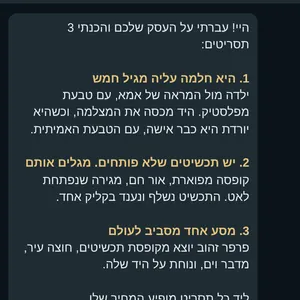
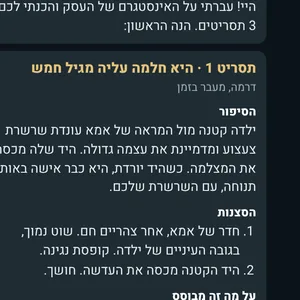
How it works: the ideas step shows a detailed script proposal; the finished video is shown as a cinematic title card, not a catalog video
Claude-Session: https://claude.ai/code/session_015Kj6wZhrCRAfSfrvuRRH85

Changed region(s): [[0.0, 0.0, 1.0, 1.0]]

diff --git a/index.html b/index.html
@@ -521,7 +521,7 @@ body>.wafb{position:fixed;inset-inline:16px;bottom:calc(88px + env(safe-area-ins
 .hw-dt h3{font-size:1.0625rem;line-height:1.3;margin:0 0 6px}.hw-dt p{margin:0;color:var(--inv-muted);font-size:.9375rem;line-height:1.5}
 .hw-dx{appearance:none;border:0;background:none;color:var(--inv-ink);font:inherit;font-size:.875rem;text-decoration:underline;text-underline-offset:3px;padding:10px 0 2px;cursor:pointer}
 .hw-cta{margin-top:16px}.hw-cta .btn{width:100%;color:var(--ink);text-decoration:none}
-@media (max-width:600px){.hw-d{grid-template-columns:1fr;gap:10px;padding:10px}.hw-dimg{max-width:300px;margin-inline:auto;width:100%}.hw-dimg img{max-height:420px}}
+@media (max-width:600px){.hw-d{grid-template-columns:1fr;gap:10px;padding:10px}.hw-dimg{max-width:300px;margin-inline:auto;width:100%}.hw-dimg img{max-height:450px}}
 .how-steps h3,.how-steps h4{font-size:1.5rem;margin-bottom:8px}
 .how-way{margin-top:40px;scroll-margin-top:calc(var(--nav) + 16px)}.how-way+.how-way{margin-top:56px;padding-top:48px;border-top:1px solid rgba(255,255,255,.14)}
 .how-t{font-size:1.5rem;line-height:1.3;display:flex;flex-wrap:wrap;align-items:center;gap:8px 12px}.how-t span{font-size:.875rem;font-weight:700;color:var(--ink);background:var(--accent);border-radius:999px;padding:4px 12px}
@@ -887,7 +887,7 @@ dialog .undo{bottom:24px}
       </div>
       <div class="hw-p" id="how-scan" role="tabpanel" aria-labelledby="hwt-scan">
         <p class="hw-line">מדביקים קישור לעסק, מקבלים 3 תסריטים בוואטסאפ, ובוחרים אחד.</p>
-        <div class="hw-row"><button type="button" class="hw-s" aria-expanded="false" data-big="how/a1.webp" data-h="מדביקים קישור לעסק" data-d="מדביקים קישור לאתר או לאינסטגרם של העסק. אפשר לסמן לאן הסרטון מיועד ולהוסיף הערה, ואז לוחצים &quot;שליחה בוואטסאפ&quot;." data-ill="0"><span class="ph"><img src="how/a1-s.webp" alt="" loading="lazy" width="300" height="300"><i aria-hidden="true">1</i></span><b>מדביקים קישור</b></button><button type="button" class="hw-s" aria-expanded="false" data-big="how/a2.webp" data-h="מקבלים 3 תסריטים ובוחרים" data-d="לומדים את המוצרים, הצבעים והסגנון שלכם, ושולחים לכם בוואטסאפ 3 תסריטים שנכתבו בשביל העסק שלכם, כל אחד עם מחיר. עונים במספר של התסריט שאהבתם, למשל &quot;1 מעניין אותי&quot;." data-ill="1"><span class="ph"><img src="how/a2-s.webp" alt="" loading="lazy" width="300" height="300"><i aria-hidden="true">2</i><em>המחשה</em></span><b>בוחרים תסריט</b></button><button type="button" class="hw-s" aria-expanded="false" data-big="how/a3.webp" data-h="מקבלים את הסרטון" data-d="תוך 2 ימי עסקים הסרטון מגיע אליכם בוואטסאפ, מוכן לאינסטגרם, לטיקטוק ולאתר. רוצים לשנות משהו קטן? כותבים לנו." data-ill="1"><span class="ph"><img src="how/a3-s.webp" alt="" loading="lazy" width="300" height="300"><i aria-hidden="true">3</i><em>המחשה</em></span><b>מקבלים סרטון</b></button></div>
+        <div class="hw-row"><button type="button" class="hw-s" aria-expanded="false" data-big="how/a1.webp" data-h="מדביקים קישור לעסק" data-d="מדביקים קישור לאתר או לאינסטגרם של העסק. אפשר לסמן לאן הסרטון מיועד ולהוסיף הערה, ואז לוחצים &quot;שליחה בוואטסאפ&quot;." data-ill="0"><span class="ph"><img src="how/a1-s.webp" alt="" loading="lazy" width="300" height="300"><i aria-hidden="true">1</i></span><b>מדביקים קישור</b></button><button type="button" class="hw-s" aria-expanded="false" data-big="how/a2.webp?2" data-h="מקבלים 3 תסריטים ובוחרים" data-d="לומדים את המוצרים, הצבעים והסגנון שלכם, ושולחים לכם בוואטסאפ 3 תסריטים מפורטים שנכתבו בשביל העסק שלכם. בכל תסריט: הסיפור, הסצנות אחת אחת, על מה הוא מבוסס והמחיר. עונים במספר של התסריט שאהבתם, למשל &quot;1 מעניין אותי&quot;." data-ill="1"><span class="ph"><img src="how/a2-s.webp?2" alt="" loading="lazy" width="300" height="300"><i aria-hidden="true">2</i><em>המחשה</em></span><b>בוחרים תסריט</b></button><button type="button" class="hw-s" aria-expanded="false" data-big="how/a3.webp?2" data-h="מקבלים את הסרטון" data-d="תוך 2 ימי עסקים הסרטון מגיע אליכם בוואטסאפ, מוכן לאינסטגרם, לטיקטוק ולאתר. רוצים לשנות משהו קטן? כותבים לנו." data-ill="1"><span class="ph"><img src="how/a3-s.webp?2" alt="" loading="lazy" width="300" height="300"><i aria-hidden="true">3</i><em>המחשה</em></span><b>מקבלים סרטון</b></button></div>
         <p class="hw-hint">לחיצה על תמונה פותחת הסבר מפורט.</p>
         <div class="hw-d" hidden><div class="hw-dimg"><img alt=""><em hidden>המחשה</em></div><div class="hw-dt"><h3></h3><p></p><button type="button" class="hw-dx">סגירה</button></div></div>
         <div class="hw-cta"><button class="btn gold" type="button" data-scan>שלחו לי רעיונות <span class="arr" aria-hidden="true">←</span></button></div>
